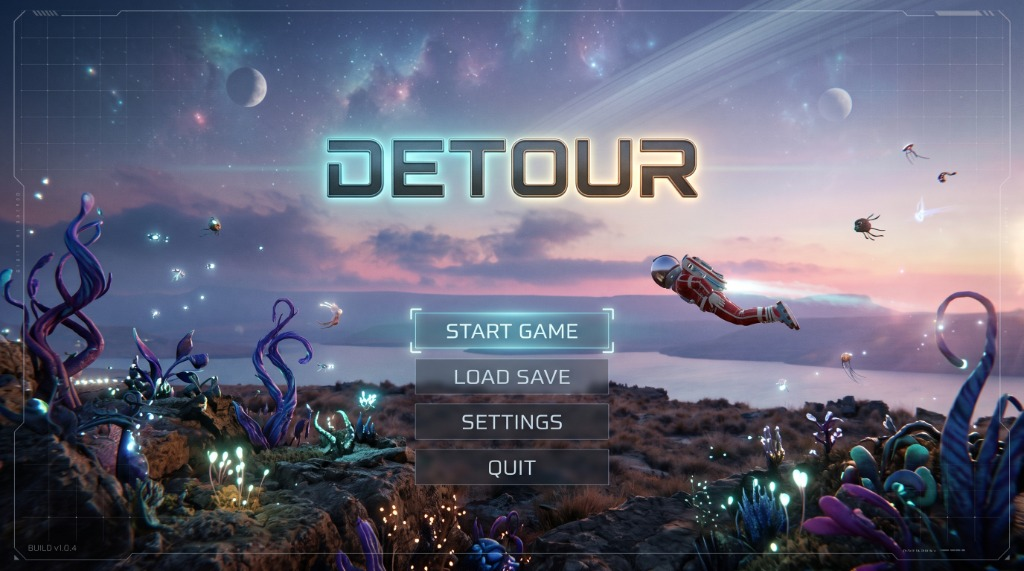
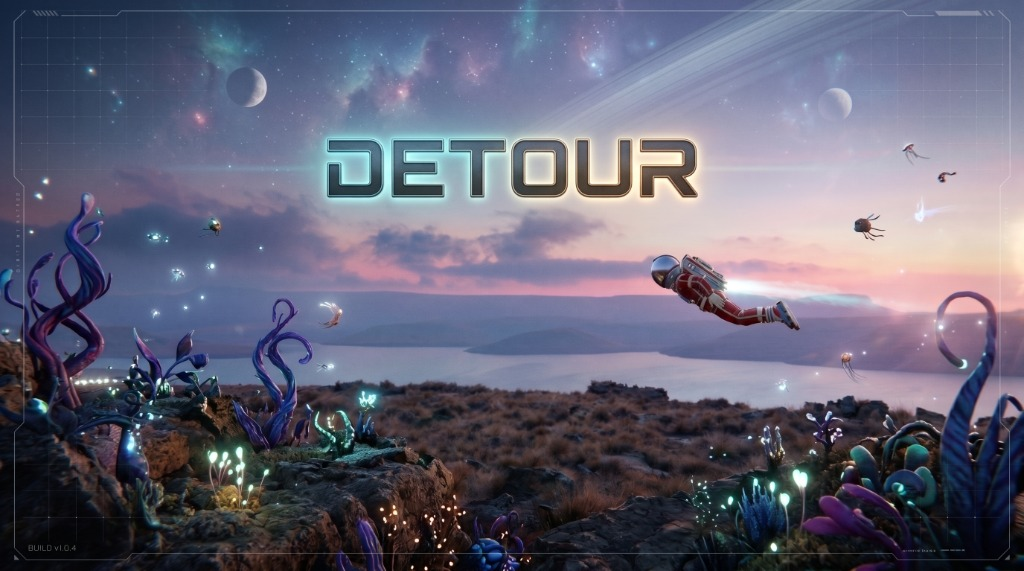
Update main menu with clean background artwork and align interactive buttons

diff --git a/index.html b/index.html
@@ -66,7 +66,7 @@
     .menu-vignette {
       position: absolute;
       inset: 0;
-      background: radial-gradient(circle at center, rgba(5, 8, 17, 0.05) 0%, rgba(5, 8, 17, 0.55) 100%);
+      background: radial-gradient(circle at center, rgba(5, 8, 17, 0.0) 0%, rgba(5, 8, 17, 0.35) 100%);
       pointer-events: none;
     }
     #menu-particles {
@@ -77,150 +77,26 @@
       pointer-events: none;
     }
 
-    /* Sci-Fi HUD Framing Overlay (Corner Brackets & Tech Markings) */
-    .menu-frame {
-      position: absolute;
-      inset: 20px;
-      pointer-events: none;
-      border: 1px solid rgba(56, 189, 248, 0.12);
-    }
-    .frame-corner {
-      position: absolute;
-      width: 80px;
-      height: 80px;
-    }
-    .frame-corner.top-left {
-      top: -1px;
-      left: -1px;
-    }
-    .frame-corner.top-right {
-      top: -1px;
-      right: -1px;
-    }
-    .frame-corner.bottom-left {
-      bottom: -1px;
-      left: -1px;
-    }
-    .frame-corner.bottom-right {
-      bottom: -1px;
-      right: -1px;
-    }
-    .corner-svg {
-      width: 100%;
-      height: 100%;
-    }
-
-    /* Tech Markings & Metadata */
-    .build-tag {
-      position: absolute;
-      bottom: 8px;
-      left: 14px;
-      font-family: 'Share Tech Mono', monospace;
-      font-size: 0.72rem;
-      letter-spacing: 1.5px;
-      color: rgba(148, 163, 184, 0.7);
-      text-transform: uppercase;
-    }
-    .system-tag {
-      position: absolute;
-      bottom: 8px;
-      right: 14px;
-      font-family: 'Share Tech Mono', monospace;
-      font-size: 0.68rem;
-      letter-spacing: 2px;
-      color: rgba(148, 163, 184, 0.65);
-      text-transform: uppercase;
-    }
-    .frame-left-tag {
-      position: absolute;
-      left: 8px;
-      top: 50%;
-      transform: translateY(-50%) rotate(-90deg);
-      font-family: 'Share Tech Mono', monospace;
-      font-size: 0.62rem;
-      letter-spacing: 3px;
-      color: rgba(56, 189, 248, 0.45);
-      white-space: nowrap;
-    }
-    .grid-cross {
-      position: absolute;
-      color: rgba(56, 189, 248, 0.4);
-      font-family: 'Share Tech Mono', monospace;
-      font-size: 0.85rem;
-      line-height: 1;
-    }
-    .grid-cross.top-mid { top: 25%; left: 30%; }
-    .grid-cross.mid-left { top: 60%; left: 18%; }
-    .grid-cross.mid-right { top: 38%; right: 22%; }
-
-    /* Central Brand Logo Container */
-    .menu-content {
-      position: relative;
-      z-index: 10;
-      display: flex;
-      flex-direction: column;
-      align-items: center;
-      margin-top: -30px;
-    }
-    .menu-logo-wrapper {
-      position: relative;
-      margin-bottom: 34px;
-    }
-
-    /* Official "DETOUR" Logo with Cyan-to-Amber Glow & Laser Flare */
-    .logo-detour {
-      position: relative;
-      display: inline-flex;
-      align-items: center;
-      font-family: 'Orbitron', 'Rajdhani', sans-serif;
-      font-size: clamp(3.6rem, 7.5vw, 5.8rem);
-      font-weight: 900;
-      letter-spacing: 0.16em;
-      text-transform: uppercase;
-      line-height: 1;
-      text-shadow: 0 4px 20px rgba(0, 0, 0, 0.8);
-    }
-    .logo-det {
-      background: linear-gradient(180deg, #ffffff 15%, #bae6fd 45%, #0284c7 90%);
-      -webkit-background-clip: text;
-      -webkit-text-fill-color: transparent;
-      filter: drop-shadow(0 0 10px rgba(0, 240, 255, 0.9)) drop-shadow(0 0 28px rgba(14, 165, 233, 0.65));
-      -webkit-text-stroke: 1.5px rgba(56, 189, 248, 0.9);
-    }
-    .logo-our {
-      background: linear-gradient(180deg, #ffffff 15%, #fef08a 45%, #d97706 90%);
-      -webkit-background-clip: text;
-      -webkit-text-fill-color: transparent;
-      filter: drop-shadow(0 0 10px rgba(251, 191, 36, 0.9)) drop-shadow(0 0 28px rgba(245, 158, 11, 0.65));
-      -webkit-text-stroke: 1.5px rgba(251, 191, 36, 0.9);
-    }
-    .logo-flare {
-      position: absolute;
-      top: 50%;
-      left: -15%;
-      right: -15%;
-      height: 2px;
-      background: linear-gradient(90deg, transparent 0%, rgba(56, 189, 248, 0.4) 20%, #ffffff 50%, rgba(251, 191, 36, 0.4) 80%, transparent 100%);
-      box-shadow: 0 0 10px 1.5px rgba(56, 189, 248, 0.8), 0 0 20px 3px rgba(251, 191, 36, 0.5);
-      pointer-events: none;
-      transform: translateY(-50%);
-    }
-
-    /* Menu Buttons Stack (Exact Reference Image 1) */
+    /* Menu Buttons Stack positioned right in the central clearing beneath the official logo */
     .menu-nav {
+      position: absolute;
+      top: 65%;
+      left: 50%;
+      transform: translate(-50%, -50%);
       display: flex;
       flex-direction: column;
       gap: 12px;
       align-items: center;
-      width: 280px;
+      width: 270px;
+      z-index: 10;
     }
     .menu-btn {
       width: 100%;
       height: 46px;
-      background: rgba(10, 20, 36, 0.62);
-      border: 1px solid rgba(56, 189, 248, 0.25);
+      background: rgba(10, 20, 36, 0.65);
+      border: 1px solid rgba(56, 189, 248, 0.28);
       border-radius: 4px;
-      color: #94a3b8;
+      color: #cbd5e1;
       font-family: 'Rajdhani', sans-serif;
       font-size: 1.15rem;
       font-weight: 700;
@@ -231,7 +107,7 @@
       justify-content: center;
       position: relative;
       cursor: pointer;
-      backdrop-filter: blur(10px);
+      backdrop-filter: blur(8px);
       transition: all 0.22s cubic-bezier(0.16, 1, 0.3, 1);
     }
     .menu-btn .btn-bracket {
@@ -246,7 +122,7 @@
     .menu-btn .btn-bracket.right { right: 12px; transform: translateX(4px); }
 
     .menu-btn:hover, .menu-btn.active {
-      background: rgba(14, 165, 233, 0.18);
+      background: rgba(14, 165, 233, 0.2);
       border-color: #38bdf8;
       color: #ffffff;
       box-shadow: 0 0 22px rgba(56, 189, 248, 0.45), inset 0 0 12px rgba(56, 189, 248, 0.22);
@@ -904,84 +780,30 @@
     <div class="menu-vignette"></div>
     <canvas id="menu-particles"></canvas>
 
-    <!-- Sci-Fi HUD Framing Lines & Corner Tech Details (Image 1) -->
-    <div class="menu-frame">
-      <!-- Top-Left Corner -->
-      <div class="frame-corner top-left">
-        <svg class="corner-svg" viewBox="0 0 100 100">
-          <path d="M 2 40 L 2 6 L 6 2 L 60 2" fill="none" stroke="#38bdf8" stroke-width="1.8" opacity="0.85"/>
-          <line x1="6" y1="12" x2="6" y2="24" stroke="#38bdf8" stroke-width="2" opacity="0.9"/>
-          <line x1="12" y1="12" x2="12" y2="24" stroke="#38bdf8" stroke-width="2" opacity="0.9"/>
-          <line x1="20" y1="2" x2="35" y2="2" stroke="#ffffff" stroke-width="2"/>
-        </svg>
-      </div>
-
-      <!-- Top-Right Corner -->
-      <div class="frame-corner top-right">
-        <svg class="corner-svg" viewBox="0 0 100 100">
-          <path d="M 98 40 L 98 6 L 94 2 L 40 2" fill="none" stroke="#38bdf8" stroke-width="1.8" opacity="0.85"/>
-          <line x1="94" y1="12" x2="94" y2="24" stroke="#38bdf8" stroke-width="2" opacity="0.9"/>
-          <line x1="65" y1="2" x2="80" y2="2" stroke="#ffffff" stroke-width="2"/>
-        </svg>
-      </div>
-
-      <!-- Bottom-Left Corner with BUILD v1.0.4 -->
-      <div class="frame-corner bottom-left">
-        <svg class="corner-svg" viewBox="0 0 100 100">
-          <path d="M 2 60 L 2 94 L 6 98 L 60 98" fill="none" stroke="#38bdf8" stroke-width="1.8" opacity="0.85"/>
-          <line x1="6" y1="76" x2="6" y2="88" stroke="#38bdf8" stroke-width="2" opacity="0.9"/>
-        </svg>
-        <div class="build-tag">BUILD v1.0.4</div>
-      </div>
-
-      <!-- Bottom-Right Corner with OVERLOAD // SYSTEM VER 08 -->
-      <div class="frame-corner bottom-right">
-        <svg class="corner-svg" viewBox="0 0 100 100">
-          <path d="M 98 60 L 98 94 L 94 98 L 40 98" fill="none" stroke="#38bdf8" stroke-width="1.8" opacity="0.85"/>
-          <line x1="94" y1="76" x2="94" y2="88" stroke="#38bdf8" stroke-width="2" opacity="0.9"/>
-        </svg>
-        <div class="system-tag">O V E R L O A D // SYSTEM VER 08</div>
-      </div>
-
-      <!-- Left Edge Tech Text: DIGITA 01 BALT 20 -->
-      <div class="frame-left-tag">DIGITA 01 BALT 20</div>
-
-      <!-- Grid Crosses -->
-      <div class="grid-cross top-mid">+</div>
-      <div class="grid-cross mid-left">+</div>
-      <div class="grid-cross mid-right">+</div>
+    <!-- Interactive Menu Buttons (positioned cleanly below the official logo) -->
+    <div class="menu-nav">
+      <button class="menu-btn active" id="btn-menu-start">
+        <span class="btn-bracket left">[</span>
+        <span class="btn-text">START GAME</span>
+        <span class="btn-bracket right">]</span>
+      </button>
+      <button class="menu-btn" id="btn-menu-load">
+        <span class="btn-bracket left">[</span>
+        <span class="btn-text">LOAD SAVE</span>
+        <span class="btn-bracket right">]</span>
+      </button>
+      <button class="menu-btn" id="btn-menu-settings">
+        <span class="btn-bracket left">[</span>
+        <span class="btn-text">SETTINGS</span>
+        <span class="btn-bracket right">]</span>
+      </button>
+      <button class="menu-btn" id="btn-menu-quit">
+        <span class="btn-bracket left">[</span>
+        <span class="btn-text">QUIT</span>
+        <span class="btn-bracket right">]</span>
+      </button>
     </div>
-
-    <!-- Center Content: Logo & Nav Buttons -->
-    <div class="menu-content">
-      <!-- Official "DETOUR" Logo with Cyan-to-Amber Glow & Laser Flare -->
-      <div class="menu-logo-wrapper">
-        <div class="logo-detour">
-          <span class="logo-det">DET</span><span class="logo-our">OUR</span>
-          <div class="logo-flare"></div>
-        </div>
-      </div>
-
-      <!-- Menu Buttons List -->
-      <div class="menu-nav">
-        <button class="menu-btn active" id="btn-menu-start">
-          <span class="btn-bracket left">[</span>
-          <span class="btn-text">START GAME</span>
-          <span class="btn-bracket right">]</span>
-        </button>
-        <button class="menu-btn" id="btn-menu-load">
-          <span class="btn-bracket left">[</span>
-          <span class="btn-text">LOAD SAVE</span>
-          <span class="btn-bracket right">]</span>
-        </button>
-        <button class="menu-btn" id="btn-menu-settings">
-          <span class="btn-bracket left">[</span>
-          <span class="btn-text">SETTINGS</span>
-          <span class="btn-bracket right">]</span>
-        </button>
-        <button class="menu-btn" id="btn-menu-quit">
-          <span class="btn-bracket left">[</span>
-          <span class="btn-text">QUIT</span>
+  </div>
           <span class="btn-bracket right">]</span>
         </button>
       </div>
